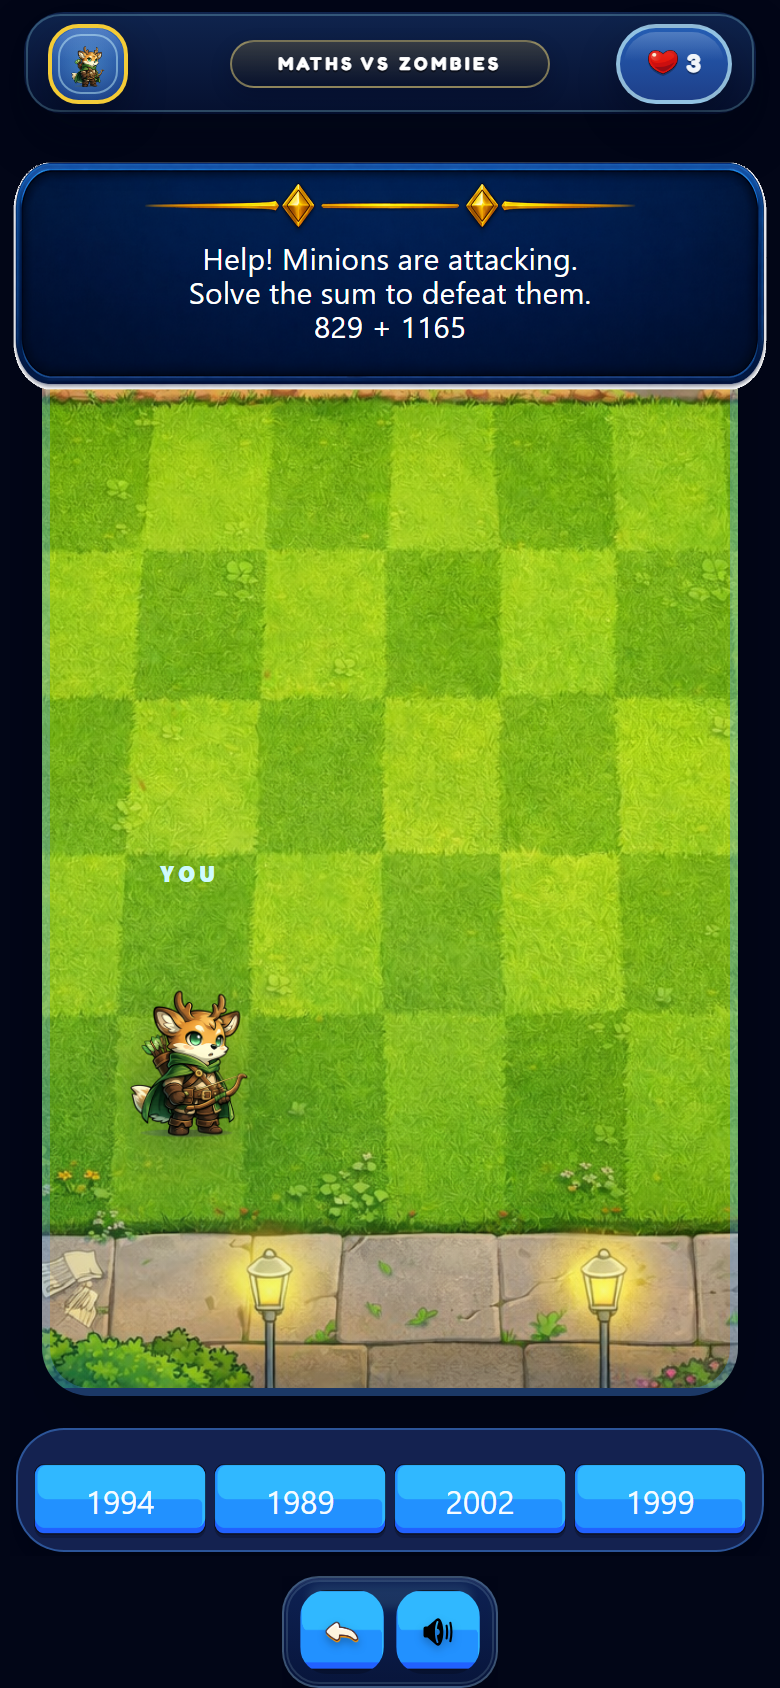
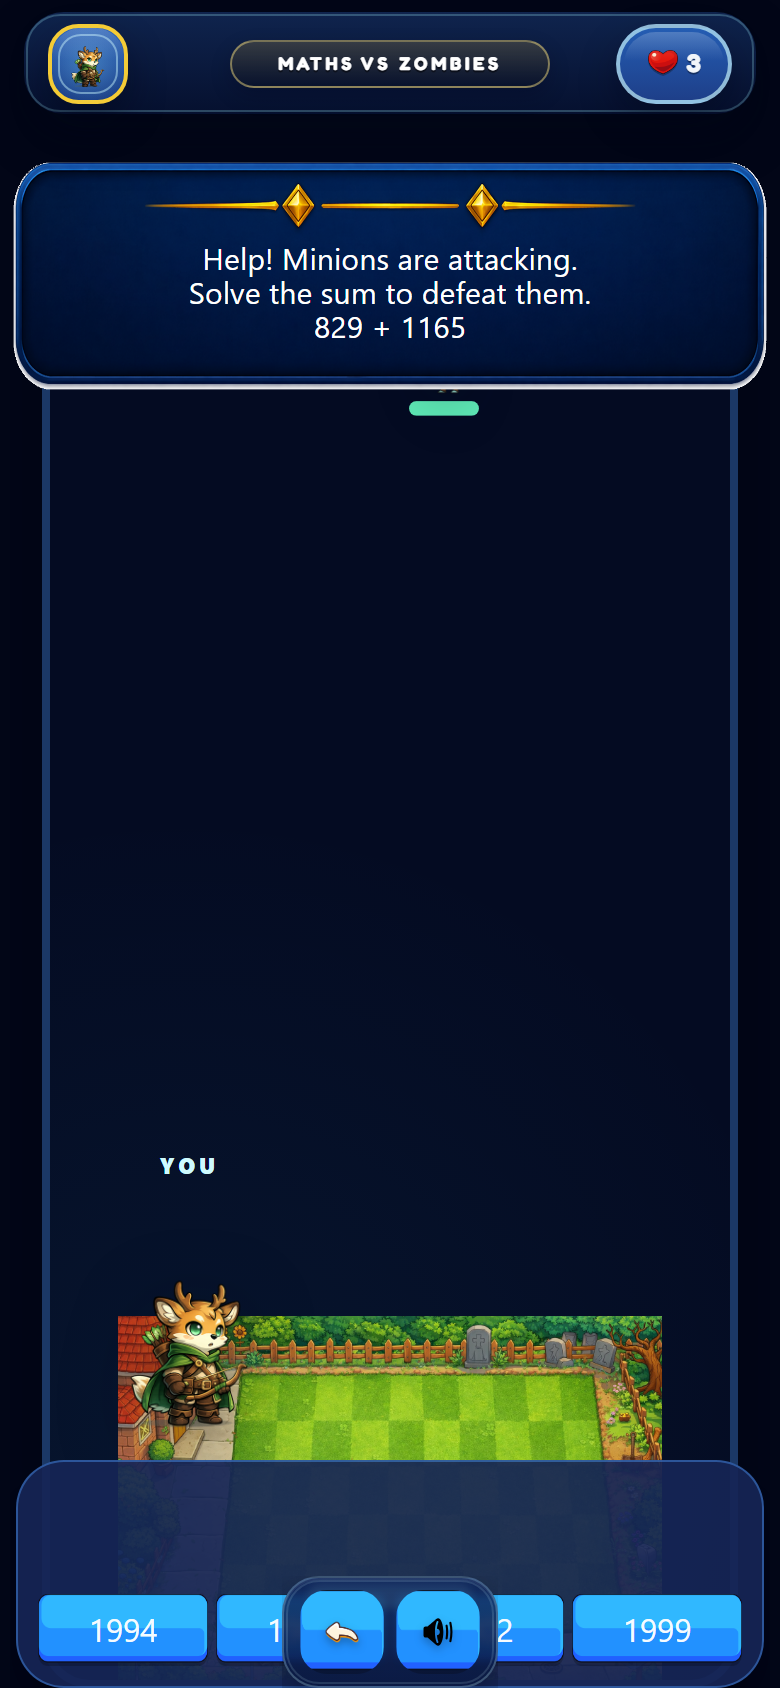
up

diff --git a/src/games/MathsVsZombiesGame.tsx b/src/games/MathsVsZombiesGame.tsx
@@ -170,6 +170,16 @@ const buildQuestion = (levelId: number): Question => {
   };
 };
 
+const getOpeningReferenceQuestion = (levelId: number): Question | null => {
+  if (levelId !== 41) return null;
+
+  return {
+    prompt: 'Help! Minions are attacking.\nSolve the sum to defeat them.\n829 + 1165',
+    options: [1994, 1989, 2002, 1999],
+    correctIndex: 0,
+  };
+};
+
 const TopBar = ({ XP, brainPoints, health, timer, onBack }: { XP: number; brainPoints: number; health: number; timer: string; onBack: () => void }) => (
   <div className="z-50 w-full px-4 pt-4">
     <div className="flex items-center justify-between">
@@ -232,7 +242,7 @@ const MathsVsZombiesGame: React.FC<MathsVsZombiesGameProps> = ({
   const [health, setHealth] = useState(3);
   const [timeLeft, setTimeLeft] = useState(roundSeconds);
   const [zombies, setZombies] = useState<Zombie[]>([]);
-  const [question, setQuestion] = useState<Question>(() => buildQuestion(levelId));
+  const [question, setQuestion] = useState<Question>(() => getOpeningReferenceQuestion(levelId) ?? buildQuestion(levelId));
   const [selectedAnswer, setSelectedAnswer] = useState<number | null>(null);
   const [feedback, setFeedback] = useState('');
   const [locked, setLocked] = useState(false);
@@ -315,7 +325,7 @@ const MathsVsZombiesGame: React.FC<MathsVsZombiesGameProps> = ({
     setTimeLeft(roundSeconds);
     setZombies([]);
     zombiesRef.current = [];
-    setQuestion(buildQuestion(levelId));
+    setQuestion(getOpeningReferenceQuestion(levelId) ?? buildQuestion(levelId));
     setSelectedAnswer(null);
     setFeedback('');
     setLocked(false);
@@ -523,12 +533,12 @@ const MathsVsZombiesGame: React.FC<MathsVsZombiesGameProps> = ({
           </GameQuestionCard>
         </div>
 
-        <div className={`mx-4 flex min-h-0 flex-[1.9] flex-col gap-2 pb-[5rem] ${useSharedTopHud ? 'mt-1' : 'mt-2'}`}>
+        <div className={`mx-4 flex min-h-0 flex-[1.9] flex-col gap-2 pb-0 ${useSharedTopHud ? 'mt-1' : 'mt-2'}`}>
           <div
             className="relative min-h-0 flex-1 overflow-hidden rounded-3xl border-4 border-blue-400/30 bg-blue-900/10 shadow-2xl"
             style={{
               backgroundImage: `url(${zombiePlayfield})`,
-              backgroundSize: 'cover',
+              backgroundSize: '80% auto',
               backgroundPosition: 'center bottom',
               backgroundRepeat: 'no-repeat',
             }}
@@ -590,23 +600,23 @@ const MathsVsZombiesGame: React.FC<MathsVsZombiesGameProps> = ({
           </div>
 
           <div
-            className="answer-choice-surface maths-vs-zombies-answer-surface mx-4 mt-2 flex flex-col rounded-3xl border border-blue-400/40 bg-blue-950/92 px-2 py-1.5 shadow-xl"
-            style={{ ['--sat-pill-height' as '--sat-pill-height']: '2.35rem' }}
+            className="answer-choice-surface maths-vs-zombies-answer-surface mx-4 mt-2 flex h-[clamp(7rem,13.5vh,7.7rem)] flex-col rounded-3xl border border-blue-400/40 bg-blue-950/92 px-2.5 pb-2.5 pt-1.5 shadow-xl"
+            style={{ ['--sat-pill-height' as '--sat-pill-height']: '2.2rem' }}
           >
             <div
-              className={`min-h-[0.7rem] text-center text-[7px] font-semibold uppercase tracking-[0.12em] text-cyan-100/80 ${feedback ? 'opacity-100' : 'opacity-0'}`}
+              className={`min-h-[1rem] text-center text-[9px] font-semibold uppercase tracking-[0.12em] text-cyan-100/80 ${feedback ? 'opacity-100' : 'opacity-0'}`}
               aria-hidden={!feedback}
             >
               {feedback || '\u00A0'}
             </div>
-            <div className="mx-auto grid w-full max-w-[44rem] grid-cols-4 gap-1">
+            <div className="mt-auto grid grid-cols-4 gap-1">
               {question.options.map((option, index) => (
                 <button
                   key={`${option}-${index}`}
                   type="button"
                   onClick={() => handleAnswer(index)}
                   disabled={locked}
-                  className={`rounded-2xl px-1.5 py-1.5 text-[clamp(0.72rem,1.65vw,0.88rem)] font-black leading-none whitespace-nowrap ${
+                  className={`rounded-2xl px-1.5 py-1.5 text-[clamp(0.75rem,1.9vw,0.9rem)] font-black leading-none whitespace-nowrap ${
                     locked && selectedAnswer === index
                       ? index === question.correctIndex
                         ? 'ui-button-success'

diff --git a/src/index.css b/src/index.css
@@ -4913,11 +4913,7 @@ button.avatar-hero-arrow:not(:disabled):active {
   --shared-minigame-dock-gap: 0.5rem;
   --shared-minigame-dock-buffer: 0rem;
   --shared-question-card-top-gap: 10px;
-  --shared-minigame-reserved-bottom: calc(
-    var(--shared-minigame-dock-height)
-    + var(--shared-minigame-dock-gap)
-    + var(--shared-minigame-dock-buffer)
-  );
+  --shared-minigame-reserved-bottom: 0rem;
   --shared-minigame-hud-reserved-top: calc(
     0.5rem
     + (var(--shared-minigame-hud-padding-y) * 2)
@@ -4989,7 +4985,7 @@ button.avatar-hero-arrow:not(:disabled):active {
 }
 
 .screen-gameplay .unified-minigame-hud-enabled .maths-vs-zombies-answer-surface {
-  bottom: 2px !important;
+  bottom: calc(env(safe-area-inset-bottom) / var(--game-stage-scale, 1)) !important;
 }
 
 .screen-gameplay .unified-minigame-hud-enabled .structured-game-layout > * {
